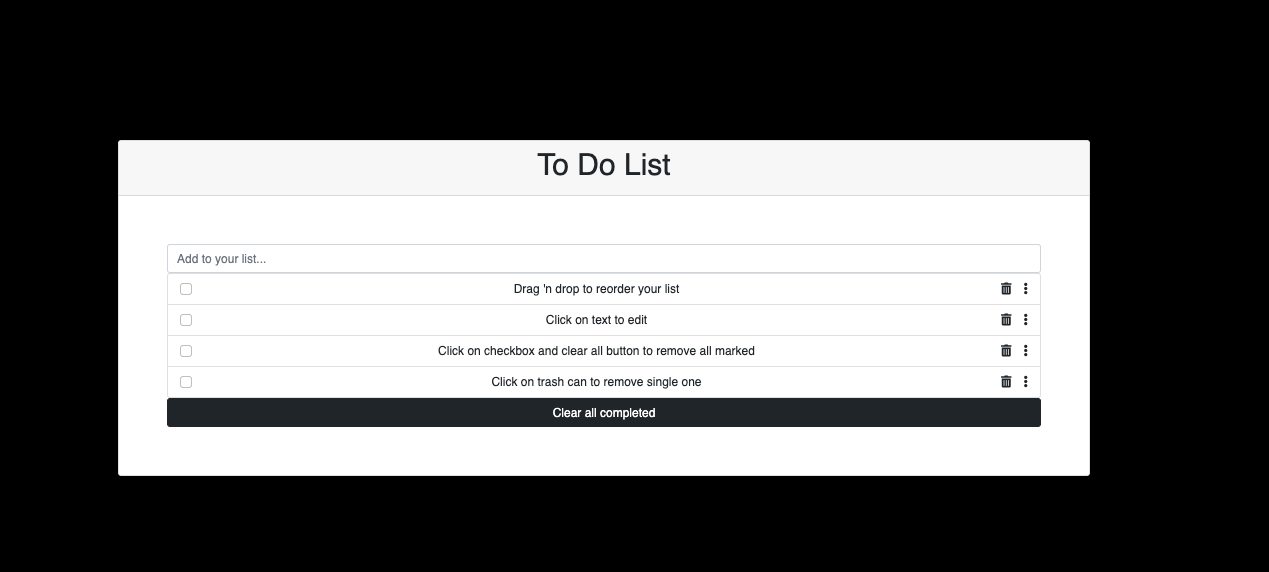
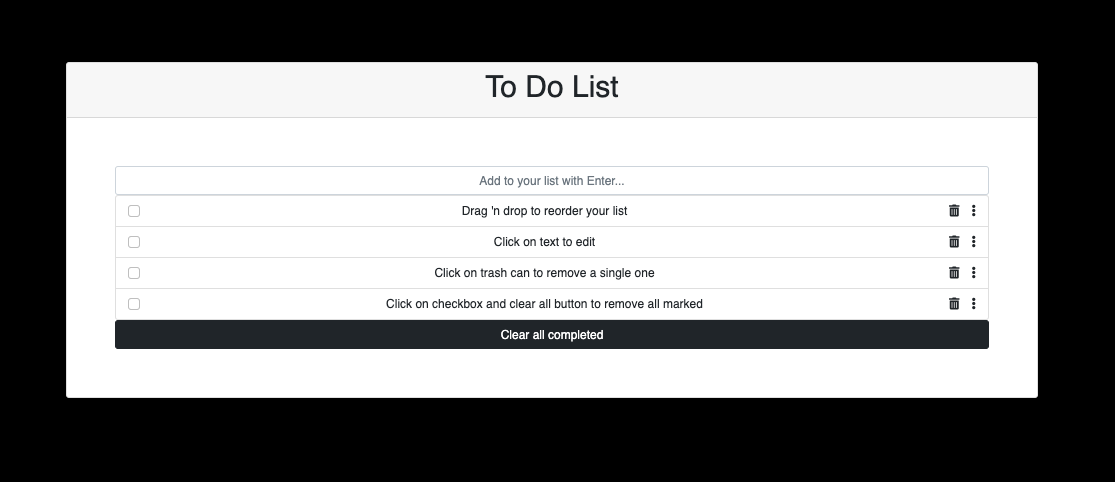
update readme

Changed region(s): [[0.061, 0.1245, 0.9453, 0.8402], [0.7623, 0.5913, 0.8233, 0.6224]]

diff --git a/src/index.html b/src/index.html
@@ -19,8 +19,8 @@
                     <form>
                         <fieldset>
                             <div class="">
-                                <input type="text" id="textinput" class="form-control"
-                                    placeholder="Add to your list...">
+                                <input type="text" id="textinput" class="form-control text-center"
+                                    placeholder="Add to your list with Enter...">
                             </div>
                             <ul class="list-group" id="list">
                             </ul>
